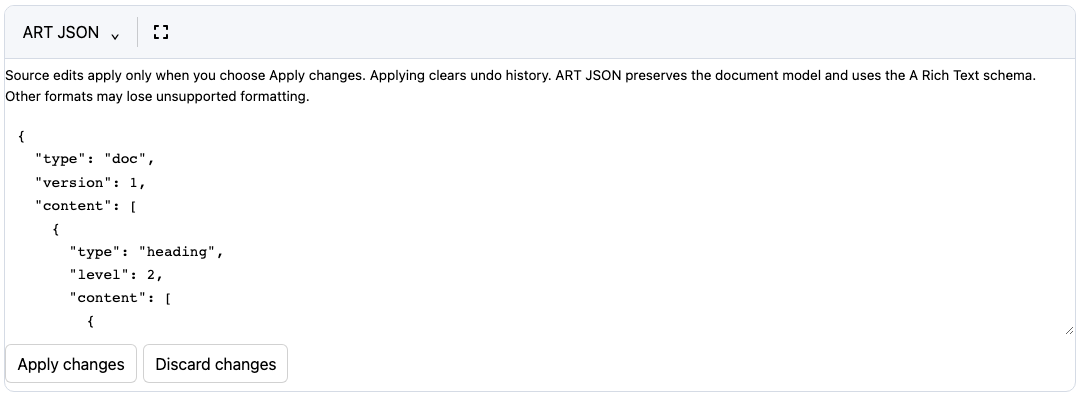
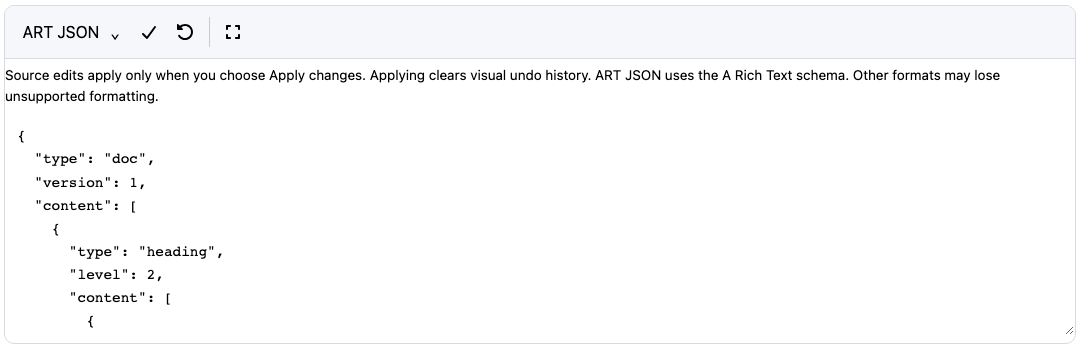
docs: record local verification and refresh component captures

diff --git a/docs/verification/2026-09-16-live-source.md b/docs/verification/2026-09-16-live-source.md
@@ -1,0 +1,58 @@
+# Local verification: live source tools and short component aliases
+
+All gates passed on source revision `dcf1e7fded102ae08a979f98d25bd7ed2648e887`. The following evidence
+commit updates documentation, compatibility metadata and screenshots without
+changing runtime code or test configuration.
+
+All checks ran locally. GitHub Actions remains disabled.
+
+| Gate | Result |
+| --- | --- |
+| Package policy, workspace builds, TypeScript and Vue examples | Passed |
+| Unit tests | 428 passed across 69 files; four workers |
+| Full browser matrix | 365 passed, 73 per profile; zero failures/retries/skips |
+| Browser settings | Four workers, default 30s tests / 5s assertions; 204.8 seconds |
+| Distribution | 26 tarballs inspected; every export imported without a DOM; isolated TypeScript consumer passed |
+| Optional formatter consumer | Installed and executed offline from local packages |
+| Minimal bundle | 35,472 gzip bytes / 51,200 ceiling |
+| Standard bundle | 54,190 gzip bytes / 66,560 ceiling |
+| Gallery | 25 component-only captures; no browser script errors |
+
+Profiles: Chromium desktop, Firefox desktop, WebKit desktop, Pixel 7 Chromium
+emulation and iPhone 15 WebKit emulation. Browser versions remain Chromium
+153.0.8010.12, Firefox 155.0 and WebKit 26.6.
+
+New coverage includes short/long tag interoperability, native forms and
+focus-mode reparenting through aliases, late sibling toolbar binding, contextual
+source-toolbar actions and hover/focus/touch code-edit icons. It also covers automatic updates in every supported source family,
+debounce/caret/raw-source preservation, synthetic composition, invalid JSON
+recovery, external-update conflicts, reset/disconnection/locks, async formatter
+staleness, strict JSON formatting and detection ambiguity. Browser tests exercise
+automatic native-form submission, blocked invalid JSON, locally loaded formatter
+chunks and foreign-profile detection. Existing manual source workflows remain
+covered explicitly. Changed Markdown file links and `git diff --check` passed.
+
+Prettier is optional and larger than the basic highlighter. The browser build
+splits its standalone runtime and HTML, Markdown, Babel and Estree parsers;
+JSON loads Babel + Estree, HTML/Markdown load their respective parser. None enter
+the normal editor entry. Exact chunk sizes and the browser-report hash are in the
+[machine-readable evidence](2026-09-16-live-source.json). Formatting, validation,
+sanitization and conversion are separate operations.
+
+Earlier checks exposed a mobile Submit layout shift, an async formatter race,
+toolbar binding before an editor sibling connected, and a Chromium focus loss
+from temporarily hiding the focus-mode button during refresh. These were corrected.
+The offline consumer verifier also needed the locked local Prettier package
+instead of npm's separate registry cache, and support for npm's object-shaped
+pack output. The final runs above supersede interrupted/development runs.
+Logs: `/tmp/art-ready-verify.log`, `/tmp/art-ready-browser.log`,
+`/tmp/art-ready-pack.log`, `/tmp/art-ready-capture.log`.
+The replaceable raw browser report is `test-results/playwright-results.json`.
+
+## Limits
+
+Foreign JSON profiles remain reference/detection hints, not import adapters.
+Markdown remains the ART subset. Applying changed source clears visual undo
+history; automatic updates preserve the raw textarea value and caret. Manual
+physical-device, real-IME, screen-reader, broad RTL/performance and public-release
+gates remain open. See [remaining work](../remaining-work.md).

diff --git a/docs/compatibility.md b/docs/compatibility.md
@@ -16,13 +16,13 @@ The Playwright configuration currently targets:
 
 | Target | Evidence source | Current status |
 |---|---|---|
-| Chromium desktop | `chromium` Playwright project | verified locally, 2026-09-15 |
-| Firefox desktop | `firefox` Playwright project | verified locally, 2026-09-15 |
-| WebKit desktop | `webkit` Playwright project | verified locally, 2026-09-15 |
-| Pixel 7 Chromium emulation | `mobile-chromium` | verified locally, 2026-09-15 |
-| iPhone 15 WebKit emulation | `mobile-webkit` | verified locally, 2026-09-15 |
+| Chromium desktop | `chromium` Playwright project | verified locally, 2026-09-16 |
+| Firefox desktop | `firefox` Playwright project | verified locally, 2026-09-16 |
+| WebKit desktop | `webkit` Playwright project | verified locally, 2026-09-16 |
+| Pixel 7 Chromium emulation | `mobile-chromium` | verified locally, 2026-09-16 |
+| iPhone 15 WebKit emulation | `mobile-webkit` | verified locally, 2026-09-16 |
 
-See [local verification evidence](verification/2026-09-15-local.md) for versions, commands and scope. These results cover the automated smoke suite on the tested revision; they do not establish physical-device, screen-reader or IME support. Validation runs locally without requiring GitHub Actions.
+See [local verification evidence](verification/2026-09-16-live-source.md) for versions, commands and scope. These results cover the automated smoke suite on the tested revision; they do not establish physical-device, screen-reader or IME support. Validation runs locally without requiring GitHub Actions.
 
 ## Browser smoke contract
 

diff --git a/docs/remaining-work.md b/docs/remaining-work.md
@@ -44,8 +44,8 @@ separate Vue editing engine is unnecessary; the wrapper is optional.
 
 ## Production release gates
 
-The [latest full local run](verification/2026-09-16-editor-showcase.md) passed 406 unit
-tests, all 330 browser cases without retries/skips, and 26 package installation
+The [latest full local run](verification/2026-09-16-live-source.md) passed 428 unit
+tests, all 365 browser cases without retries/skips, and 26 package installation
 checks. This closes the accumulated automated-regression check at its recorded
 revision; the manual and release prerequisites below remain.
 
